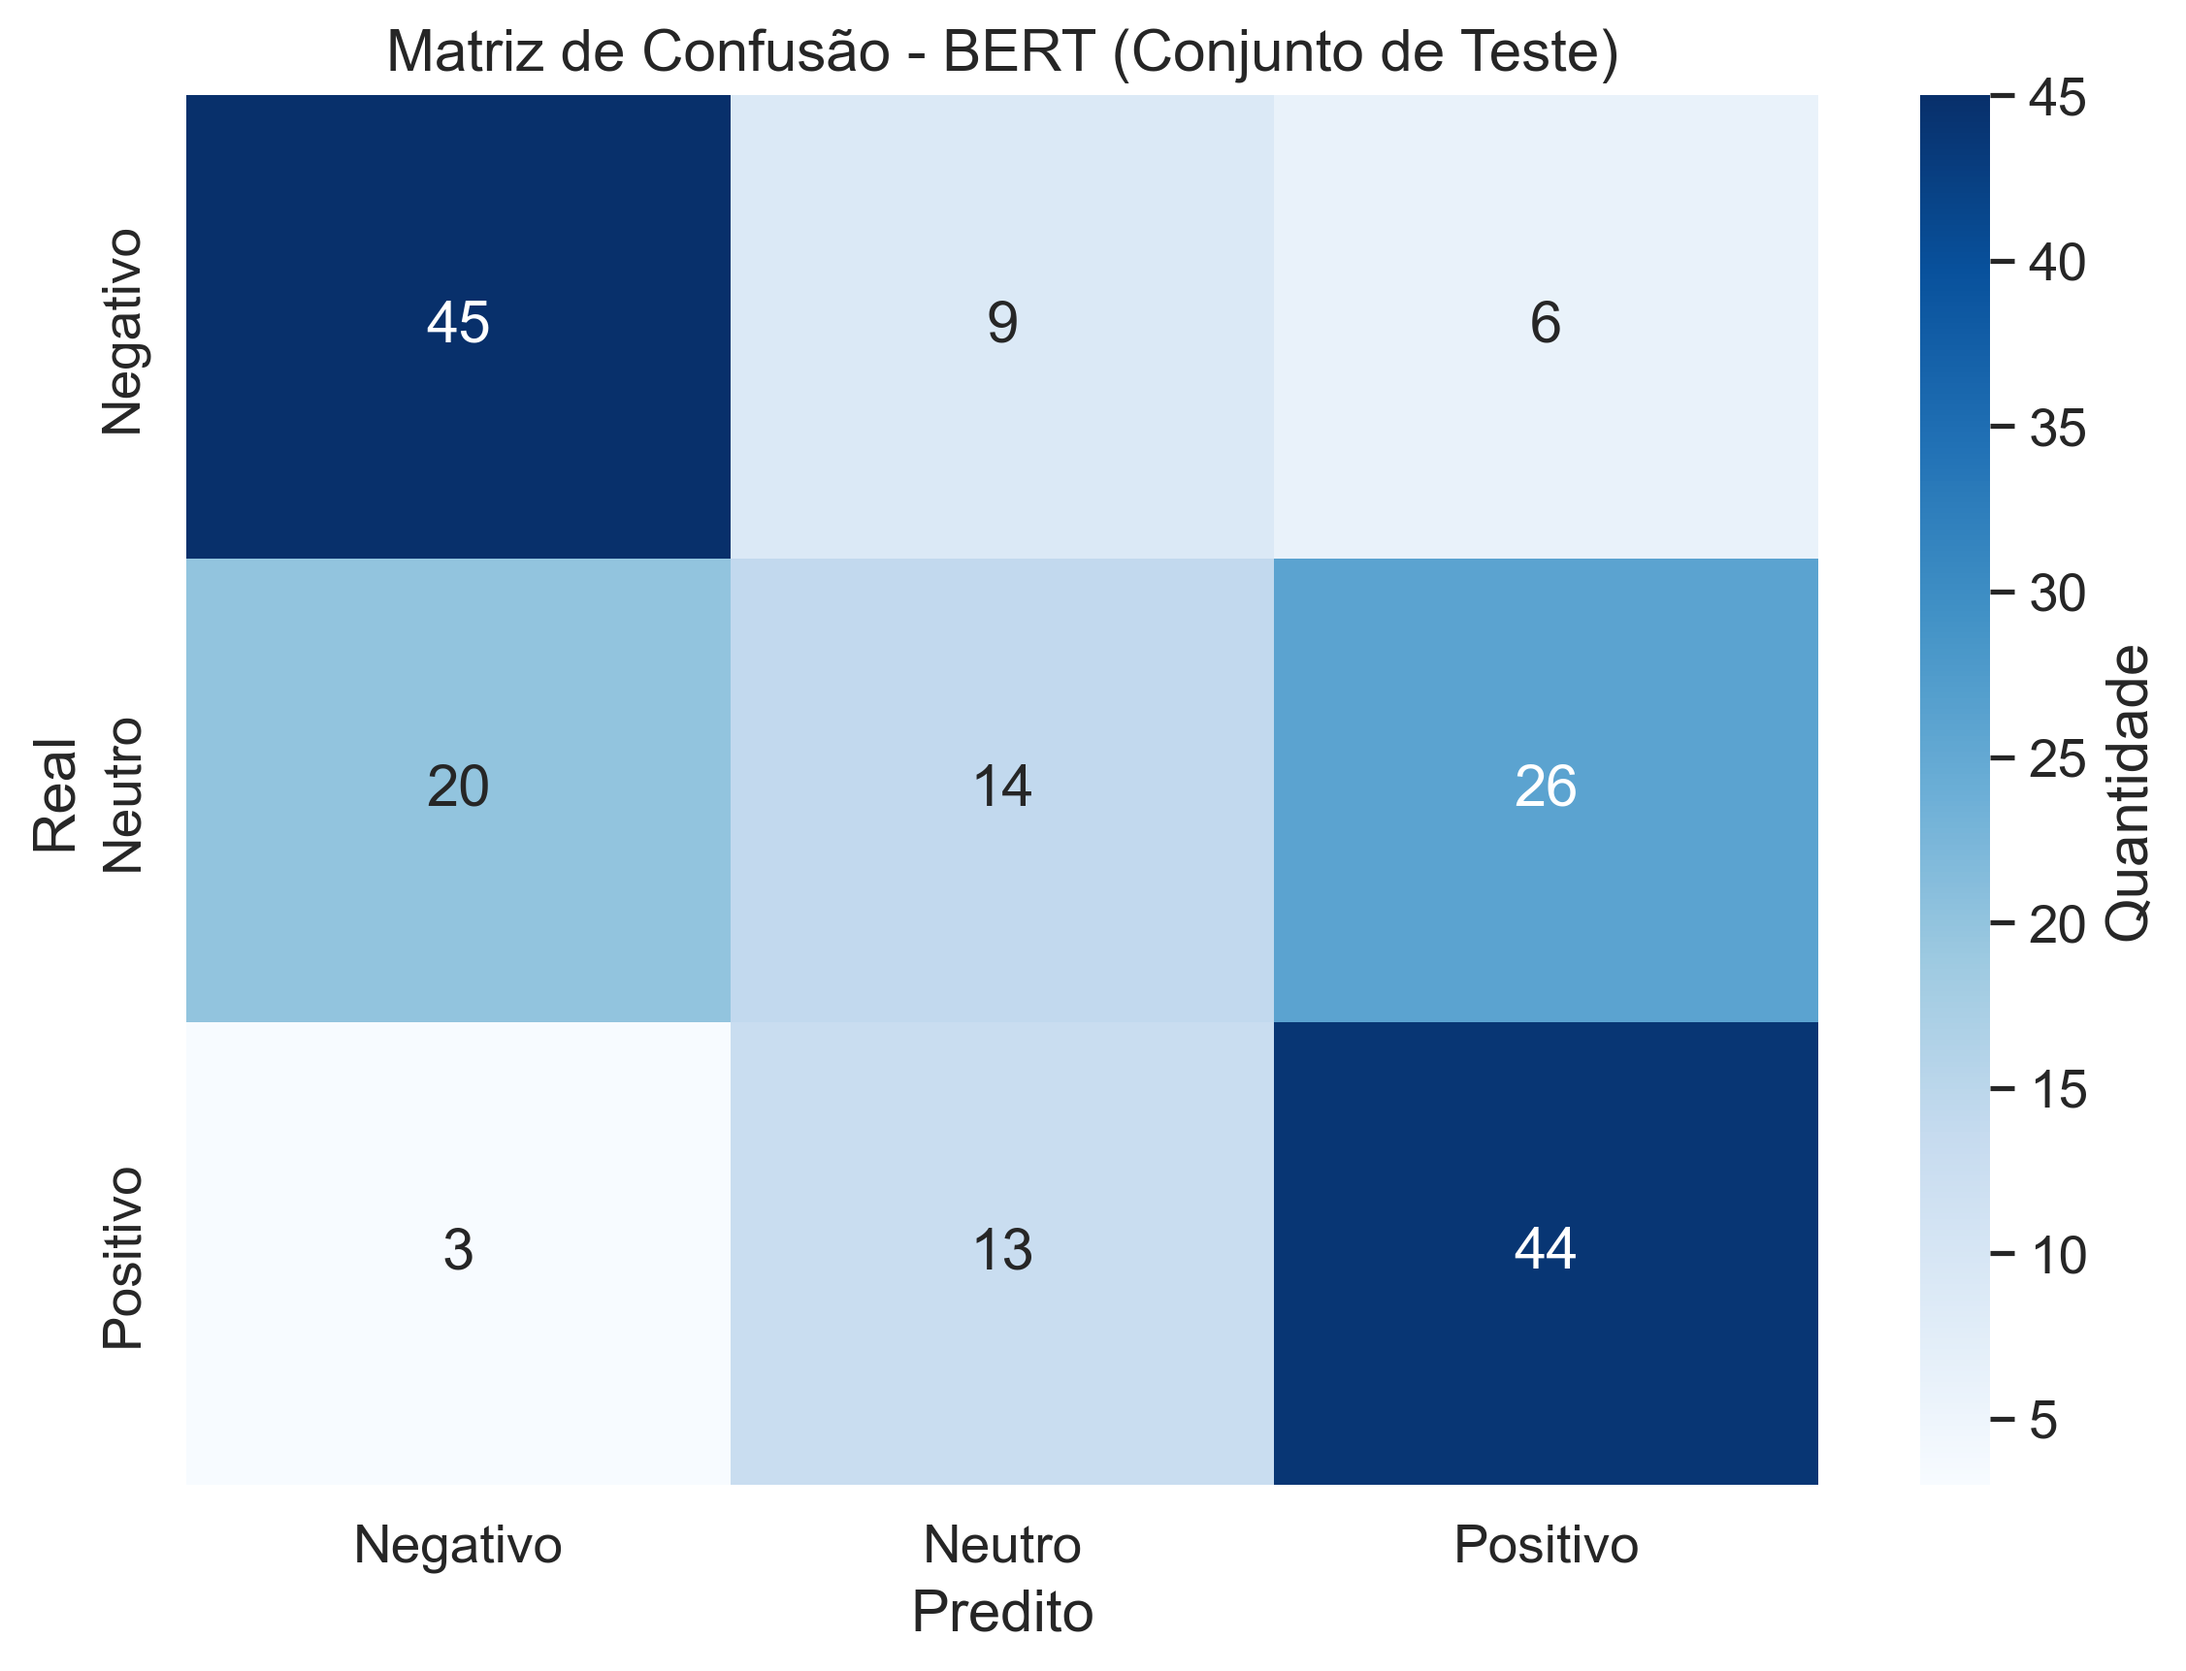
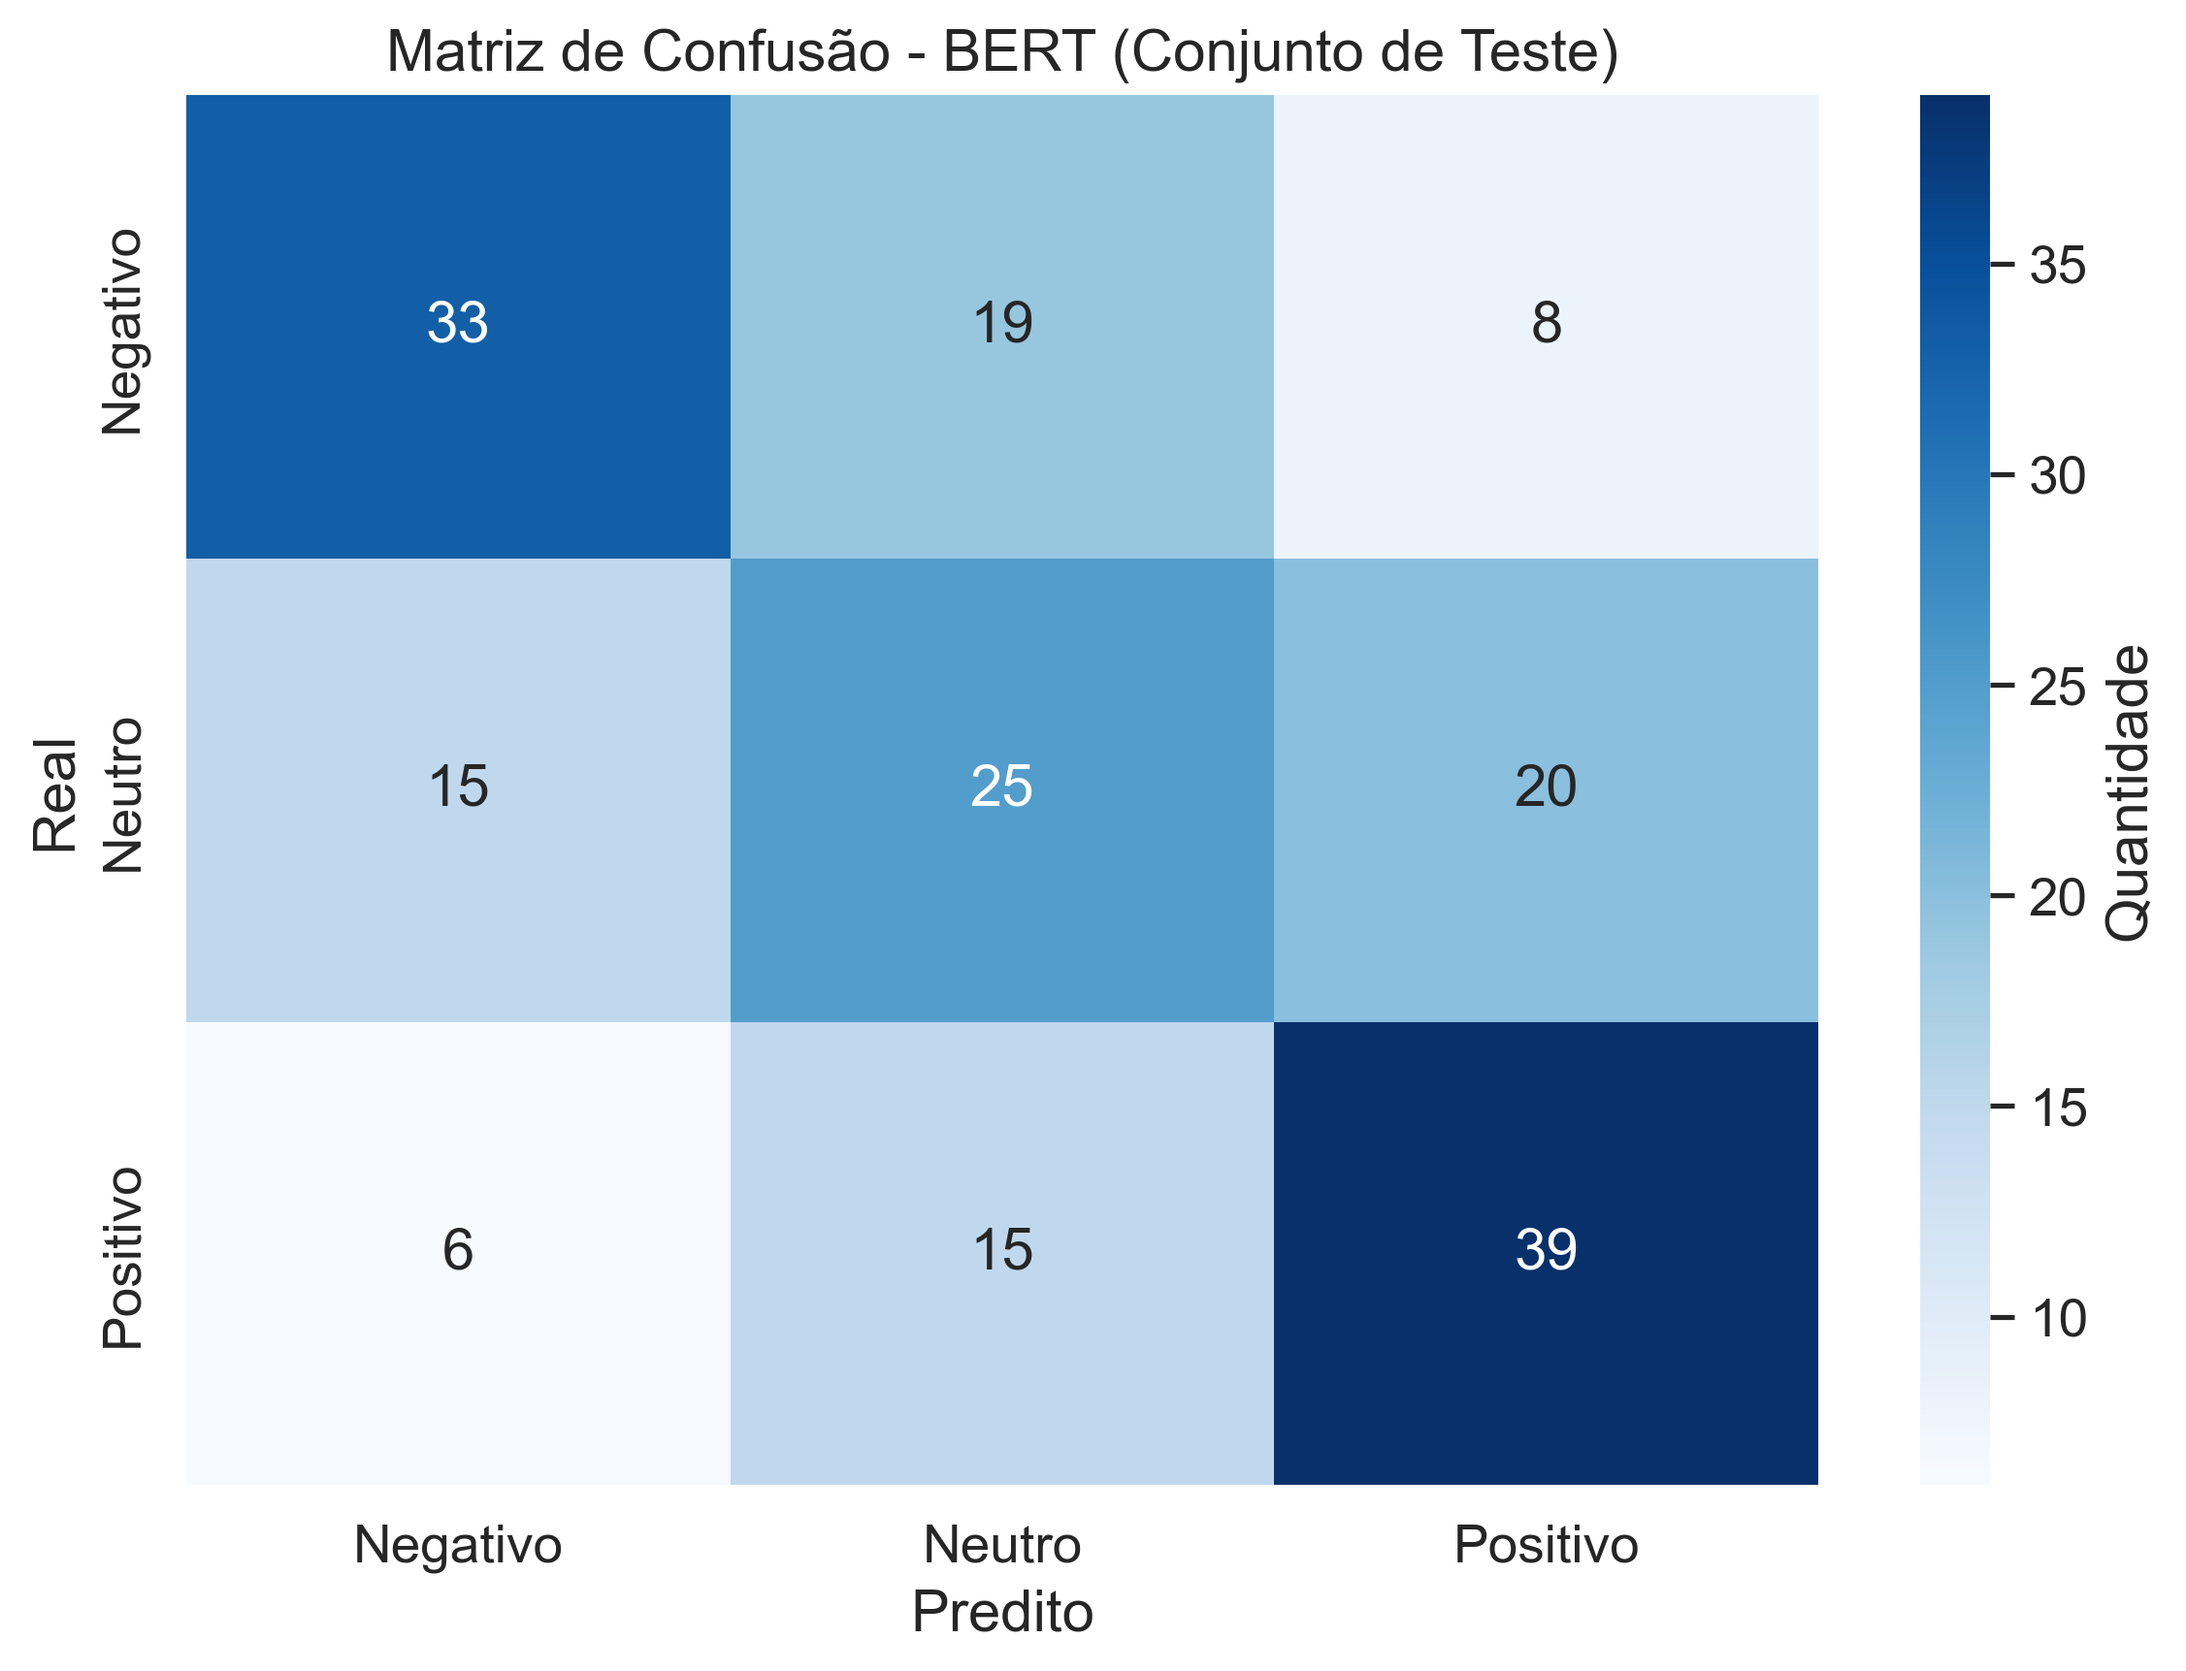
atualização

diff --git a/Rede_Neural/sample_data/jogos.py b/Rede_Neural/sample_data/jogos.py
@@ -260,7 +260,7 @@ print(f"  Teste: {len(df_test)} ({len(df_test)/len(df_balanceado)*100:.1f}%)")
 
 # Configurações otimizadas
 BATCH_SIZE = 8  # Balance entre velocidade e estabilidade
-MAX_LENGTH = 64  # Textos mais curtos para mais velocidade
+MAX_LENGTH = 128  # Textos mais curtos para mais velocidade
 
 # Cria datasets BERT
 treino_dataset = BERTReviewDataset(df_treino['content_clean'], df_treino['sentiment'], tokenizer, MAX_LENGTH)
